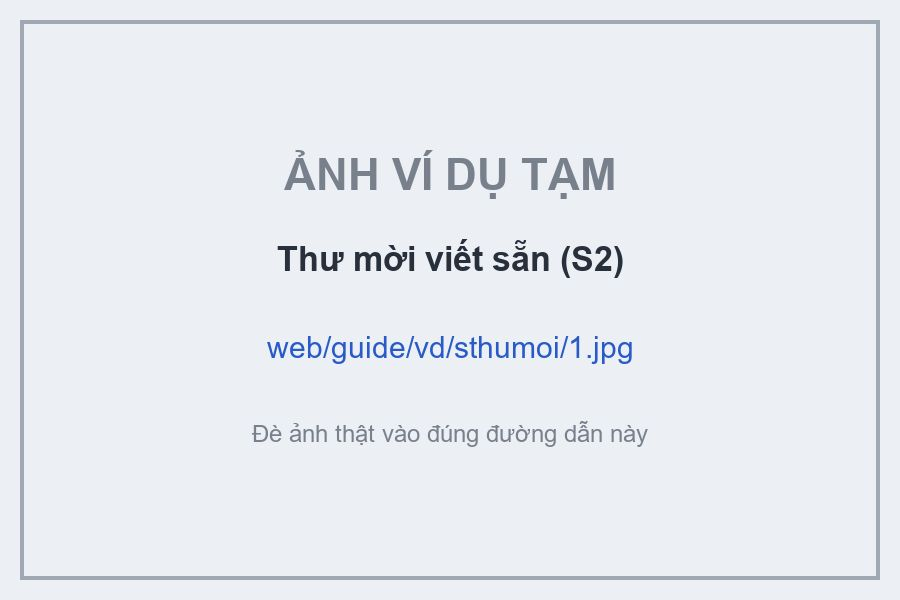
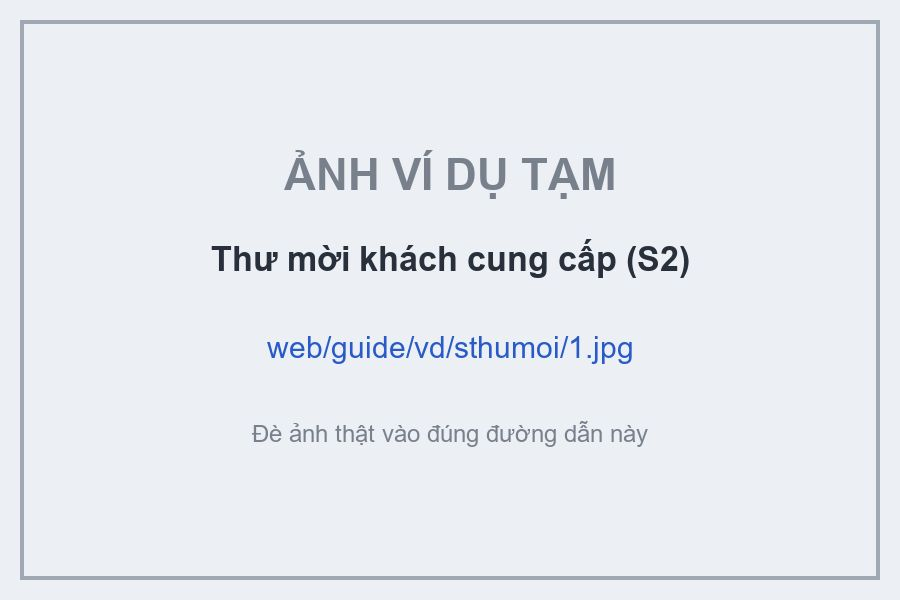
Web guides Q1/Q2/S2: qmoi_/smoi_/qcm_/scm_ up to _5, qthumoi_/sthumoi_ (customer's letter)

Changed region(s): [[0.2178, 0.39, 0.7778, 0.48]]

diff --git a/web/index.html b/web/index.html
@@ -728,7 +728,7 @@ const nameKinds = `<div class="tbl-wrap" style="margin-top:10px"><table class="d
 </table></div>`;
 // Ảnh ví dụ: web/guide/vd/<key>/ (admin thả ảnh vào, server liệt kê). key = tên file bỏ số cuối,
 // trừ các file mà mỗi số là 1 giấy khác nhau (mặt trước / mặt sau).
-const EX_KEEP_NUM = ['qmoi_1', 'qmoi_2', 'smoi_1', 'smoi_2'];
+const EX_KEEP_NUM = ['qmoi_1', 'qmoi_2', 'qmoi_3', 'smoi_1', 'smoi_2', 'smoi_3'];
 // con_N -> con_cai: Windows does not allow a folder named "con"
 const exKey = (n) => (EX_KEEP_NUM.includes(n) ? n : /^con_\d+$/.test(n) ? 'con_cai' : n.replace(/_\d+$/, ''));
 const fcell = (n, what, shown = n) => `<span class="fname">${esc(shown)}.jpg</span><button type="button" class="secondary exbtn"
@@ -902,12 +902,12 @@ function typeGuide({ code, title, intro, docs, docsNote = '', extra = [], errors
           <p class="hint">Giấy nhiều trang / nhiều tờ: tăng số cuối (<code>_1</code>, <code>_2</code>…). Không có giấy tờ nào thì bỏ qua, không tạo file trống.</p>`;
       } },
       ...(group ? [groupSection(group)] : []),
-      { id: 'docs', title: `Giấy tờ riêng của visa ${code}`, hint: 'tên phải bắt đầu đúng tiền tố', open: true, when: (o) => !next(o), html: (o) => `
+      { id: 'docs', title: `Giấy tờ riêng của visa ${code}`, hint: 'tên phải bắt đầu đúng tiền tố', open: true, when: (o) => !next(o), html: (o, h) => `
         <p>Các file này <b>phải bắt đầu bằng đúng tiền tố</b> trong bảng (hệ thống dựa vào tiền tố để biết là giấy gì), sau đó là số thứ tự.</p>
         <div class="tbl-wrap"><table class="data"><tr><th>Tên file</th><th>Giấy gì</th><th>Của ai / từ đâu</th><th>Cần</th><th>Hệ thống</th></tr>
           ${docs.map(([n, what, who, need, sys]) => `<tr><td>${fcell(n, what, sigName(n, o))}</td><td>${esc(what)}</td><td>${esc(who)}</td>
             <td><span class="st ${need === 'bắt buộc' ? 'approved' : ''}">${esc(need)}</span></td><td>${sys}</td></tr>`).join('')}
-        </table></div>${docsNote}` },
+        </table></div>${typeof docsNote === 'function' ? docsNote(o, h) : docsNote}` },
       ...extra,
       ...(companions ? [companionSection] : []),
       ...(u18 ? [{ ...GUIDES.L.sections.find((x) => x.id === 'u18'), open: true }] : []),
@@ -971,26 +971,36 @@ const qSign = { id: 'sign', title: 'Chữ ký trên thư mời', hint: 'qchuki_ 
 const qDocs = (maxRel) => [
   ['qmoi_1', 'Giấy tờ người mời: CCCD / hộ khẩu / hộ chiếu Trung Quốc (mặt trước)', 'người mời (công dân TQ)', 'bắt buộc', READ('họ tên, số giấy tờ, địa chỉ, tỉnh / thành / quận'), 'giấy tờ người mời — mặt trước'],
   ['qmoi_2', 'Giấy tờ người mời (mặt sau / trang 2)', 'người mời', 'nếu có', READ('như trên'), 'giấy tờ người mời — mặt sau / trang 2'],
-  ['qcm_1', `Giấy chứng minh quan hệ (giấy kết hôn, khai sinh, hộ khẩu…), tối đa ${maxRel} file`, 'người xin visa ↔ người mời', 'bắt buộc', UPLOAD_ONLY],
+  ['qmoi_3', 'Giấy tờ người mời: trang 3, 4, 5 (qmoi_3 … qmoi_5)', 'người mời', 'nếu có', READ('như trên'), 'giấy tờ người mời — trang 3 (thêm qmoi_4, qmoi_5 nếu có)'],
+  ['qcm_1', `Giấy chứng minh quan hệ (giấy kết hôn, khai sinh, hộ khẩu…): qcm_1 … qcm_5`, 'người xin visa ↔ người mời', 'bắt buộc', UPLOAD_ONLY, 'giấy chứng minh quan hệ (thêm qcm_2 … qcm_5 nếu có)'],
+  ['qthumoi_1', 'Thư mời khách cung cấp (người mời đã viết, ký sẵn)', 'người mời / khách', 'nếu có', `<span class="st approved">thay thư hệ thống tạo</span>`, 'thư mời khách cung cấp, nếu có'],
   ['qchuki_1', 'Chữ ký người mời (cho thư mời)', 'người mời', 'nên có', READ('làm nền trắng, đưa vào thư mời'), 'chữ ký người mời (cho thư mời)'],
   ['qbaolanh_1', 'Chữ ký người bảo lãnh (ký thay người mời)', 'người bảo lãnh', 'nếu có', READ('đưa vào thư mời mẫu bảo lãnh'), 'chữ ký người bảo lãnh (ký thay người mời)'],
   ['qkhac_1', 'Giấy tờ khác hỗ trợ hồ sơ', '—', 'nếu có', UPLOAD_ONLY],
 ];
-const qNote = `<ul><li><b>Bắt buộc chọn "Quan hệ"</b> ở form (người mời là gì của người xin visa). Quan hệ này được in vào thư mời.</li>
-    <li>Thư mời không cần chuẩn bị: hệ thống tạo từ <code>qmoi</code> + quan hệ + chữ ký.</li></ul>`;
+// maxRel: North upload slots for qcm_ (Q1: 4, Q2: 3). South merges every file into 1 PDF.
+const manyNote = (h, moi, cm, maxRel) => NORTH_HOUSES.includes(h)
+  ? `<li>Nhiều trang: <code>${moi}_1</code> … <code>${moi}_5</code>, <code>${cm}_1</code> … <code>${cm}_5</code>. <b>Nhà ${esc(h)} (miền Bắc)</b>: hệ thống chỉ tải lên <b>2 file giấy tờ người mời</b> và <b>${maxRel} file quan hệ</b> đầu tiên (theo số thứ tự) — để giấy quan trọng nhất ở số nhỏ; nếu giấy dài hơn thì ghép nhiều trang vào 1 file (vd 1 PDF).</li>`
+  : `<li>Nhiều trang: <code>${moi}_1</code> … <code>${moi}_5</code>, <code>${cm}_1</code> … <code>${cm}_5</code>. <b>Nhà ${esc(h)} (miền Nam)</b>: hệ thống gộp tất cả file cùng loại thành 1 PDF theo số thứ tự, nên đánh số đúng thứ tự trang.</li>`;
+const qNote = (maxRel) => (o, h) => `<ul><li><b>Bắt buộc chọn "Quan hệ"</b> ở form (người mời là gì của người xin visa). Quan hệ này được in vào thư mời.</li>
+    ${manyNote(h, 'qmoi', 'qcm', maxRel)}
+    <li>Thư mời: bình thường không cần chuẩn bị — hệ thống tạo từ <code>qmoi</code> + quan hệ + chữ ký.</li>
+    <li><code>qthumoi_1</code> (<code>qthumoi_2</code>… nếu nhiều trang): thư mời <b>khách tự cung cấp</b>. Hiện hệ thống dùng cho <b>Q2 nhà TAI (miền Nam)</b>: có <code>qthumoi</code> thì tải lên đúng thư này (gộp các trang thành 1 PDF), thư hệ thống tạo vẫn được làm và lưu dự phòng (tên <code>…_backup.pdf</code>). Q1, Q2 miền Bắc: hệ thống chưa dùng file này — vẫn dùng thư hệ thống tạo.</li></ul>`;
 const signErrors = (p) => [`Chọn chữ ký gốc mà quên đuôi <code>_goc</code> (hoặc ngược lại) → hệ thống xử lý chữ ký sai kiểu. Đuôi phải đặt <b>cuối tên</b>: <code>${p}_1_goc</code>, không phải <code>${p}_goc_1</code>.`];
-const qErrors = [...signErrors('qchuki'), 'Giấy tờ người mời đặt tên <code>cccd.jpg</code>, <code>nguoi moi.jpg</code> → phải là <code>qmoi_1</code>, <code>qmoi_2</code>.',
+const qErrors = [...signErrors('qchuki'),
+                 'Thư mời khách đưa đặt tên <code>thumoi</code> (của visa M) hay <code>sthumoi</code> (của S2) → hồ sơ Q phải là <code>qthumoi_1</code>.',
+                 'Đánh số nhảy cóc hoặc sai thứ tự (<code>qmoi_1</code>, <code>qmoi_3</code>, thiếu <code>qmoi_2</code>) → trang bị xếp sai thứ tự.', 'Giấy tờ người mời đặt tên <code>cccd.jpg</code>, <code>nguoi moi.jpg</code> → phải là <code>qmoi_1</code>, <code>qmoi_2</code>.',
                  'Dùng tiền tố của visa S (<code>smoi_</code>, <code>scm_</code>) cho hồ sơ Q → hệ thống xếp nhầm loại.',
                  'Quên chọn "Quan hệ" ở form → không gửi được.'];
 GUIDES.Q1 = typeGuide({
   code: 'Q1', title: 'Visa Q1 (đoàn tụ gia đình, trên 180 ngày) — chuẩn bị file',
   intro: 'Sang Trung Quốc đoàn tụ, ở lâu hơn 180 ngày với người thân là công dân Trung Quốc (hoặc người có thường trú TQ). Mỗi hồ sơ là 1 thư mục, đặt tên kiểu "Q1 - NGUYEN VAN A".',
-  docs: qDocs(4), docsNote: qNote, extra: [qSign], errors: qErrors, u18: true, sign: true,
+  docs: qDocs(4), docsNote: qNote(4), extra: [qSign], errors: qErrors, u18: true, sign: true,
 });
 GUIDES.Q2 = typeGuide({
   code: 'Q2', title: 'Visa Q2 (thăm thân ngắn hạn, tối đa 180 ngày) — chuẩn bị file',
   intro: 'Thăm người thân là công dân Trung Quốc (hoặc người có thường trú TQ), ở tối đa 180 ngày. Mỗi hồ sơ là 1 thư mục, đặt tên kiểu "Q2 - NGUYEN VAN A".',
-  docs: qDocs(3), docsNote: qNote, extra: [qSign], errors: qErrors, u18: true, sign: true,
+  docs: qDocs(3), docsNote: qNote(3), extra: [qSign], errors: qErrors, u18: true, sign: true,
 });
 
 // S2: thăm người thân là người nước ngoài đang làm việc / học ở Trung Quốc
@@ -1000,14 +1010,16 @@ GUIDES.S2 = typeGuide({
   docs: [
     ['smoi_1', 'Giấy tờ người mời: hộ chiếu (trang thông tin)', 'người mời (người đang ở TQ)', 'bắt buộc', READ('họ tên, số giấy tờ, địa chỉ ở TQ'), 'hộ chiếu người mời'],
     ['smoi_2', 'Giấy tờ người mời: giấy cư trú / giấy phép ở TQ', 'người mời', 'bắt buộc', READ('như trên'), 'giấy cư trú ở TQ của người mời'],
-    ['scm_1', 'Giấy chứng minh quan hệ (giấy kết hôn, khai sinh…)', 'người xin visa ↔ người mời', 'bắt buộc', UPLOAD_ONLY],
-    ['sthumoi_1', 'Thư mời đã viết sẵn (nếu người mời có)', 'người mời', 'nếu có', UPLOAD_ONLY],
+    ['smoi_3', 'Giấy tờ người mời: trang 3, 4, 5 (smoi_3 … smoi_5)', 'người mời', 'nếu có', READ('như trên'), 'giấy tờ người mời — trang 3 (thêm smoi_4, smoi_5 nếu có)'],
+    ['scm_1', 'Giấy chứng minh quan hệ (giấy kết hôn, khai sinh…): scm_1 … scm_5', 'người xin visa ↔ người mời', 'bắt buộc', UPLOAD_ONLY, 'giấy chứng minh quan hệ (thêm scm_2 … scm_5 nếu có)'],
+    ['sthumoi_1', 'Thư mời khách cung cấp (người mời đã viết, ký sẵn)', 'người mời / khách', 'nếu có', `<span class="st approved">thay thư hệ thống tạo</span>`, 'thư mời khách cung cấp, nếu có'],
     ['smoi_ruot_1', 'Giấy tờ của chính người mời khi giấy smoi_ là của người khác', 'người mời', 'nếu có', READ('giới tính, ngày sinh người mời (cho thư mời)'), 'giấy tờ của chính người mời (khi smoi_ là của người khác)'],
     ['schuki_1', 'Chữ ký (cho thư mời)', '—', 'nên có', READ('làm nền trắng, đưa vào thư mời'), 'chữ ký (cho thư mời)'],
     ['skhac_1', 'Giấy tờ khác hỗ trợ hồ sơ', '—', 'nếu có', UPLOAD_ONLY],
   ],
-  docsNote: `<ul><li><b>Bắt buộc chọn "Quan hệ"</b> ở form; với S2, "Chồng / Vợ sắp cưới" nằm đầu danh sách.</li>
-      <li>Thư mời: có <code>sthumoi</code> thì tải đúng file đó; không có thì hệ thống tự tạo từ mẫu.</li>
+  docsNote: (o, h) => `<ul><li><b>Bắt buộc chọn "Quan hệ"</b> ở form; với S2, "Chồng / Vợ sắp cưới" nằm đầu danh sách.</li>
+      ${manyNote(h, 'smoi', 'scm', 3)}
+      <li>Thư mời: <code>sthumoi_1</code> là thư <b>khách tự cung cấp</b> — có thì hệ thống tải lên đúng thư đó (cả 2 miền); không có thì hệ thống tự tạo từ mẫu.</li>
       <li><code>smoi_ruot</code>: dùng khi giấy <code>smoi</code> là của người khác (vd chị lấy chồng TQ mời em: <code>smoi</code> = giấy của chồng, <code>smoi_ruot</code> = giấy của chị). Địa chỉ vẫn lấy từ <code>smoi</code>, giới tính + ngày sinh người mời lấy từ <code>smoi_ruot</code>.</li>
 </ul>`,
   extra: [{ id: 'sign', title: 'Chữ ký trên thư mời', hint: 'schuki_ · _goc', open: true, html: (o) => `
@@ -1016,7 +1028,8 @@ GUIDES.S2 = typeGuide({
   sign: true,
   errors: [...signErrors('schuki'), 'Dùng tiền tố của visa Q (<code>qmoi_</code>, <code>qcm_</code>) cho hồ sơ S2 → hệ thống xếp nhầm loại.',
            'Đặt <code>smoi_ruot</code> thành <code>smoiruot</code> hay <code>smoi_1_ruot</code> → phải bắt đầu đúng <code>smoi_ruot_</code>.',
-           'Thư mời đặt tên <code>thumoi</code> (của visa M) → phải là <code>sthumoi_1</code>.'],
+           'Thư mời đặt tên <code>thumoi</code> (của visa M) hay <code>qthumoi</code> (của Q) → hồ sơ S2 phải là <code>sthumoi_1</code>.',
+           'Đánh số nhảy cóc hoặc sai thứ tự (<code>smoi_1</code>, <code>smoi_3</code>, thiếu <code>smoi_2</code>) → trang bị xếp sai thứ tự.'],
 });
 
 let guideOpt = { kind: 'canhan', order: 'dau', u18: false, owner: false, goc: false };
